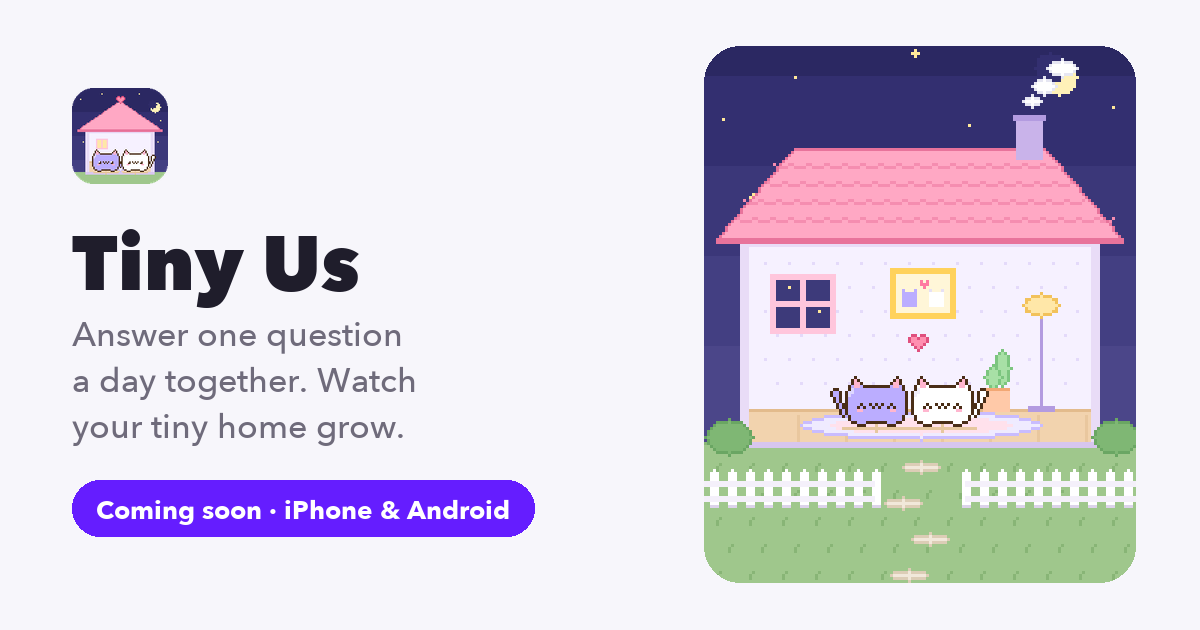
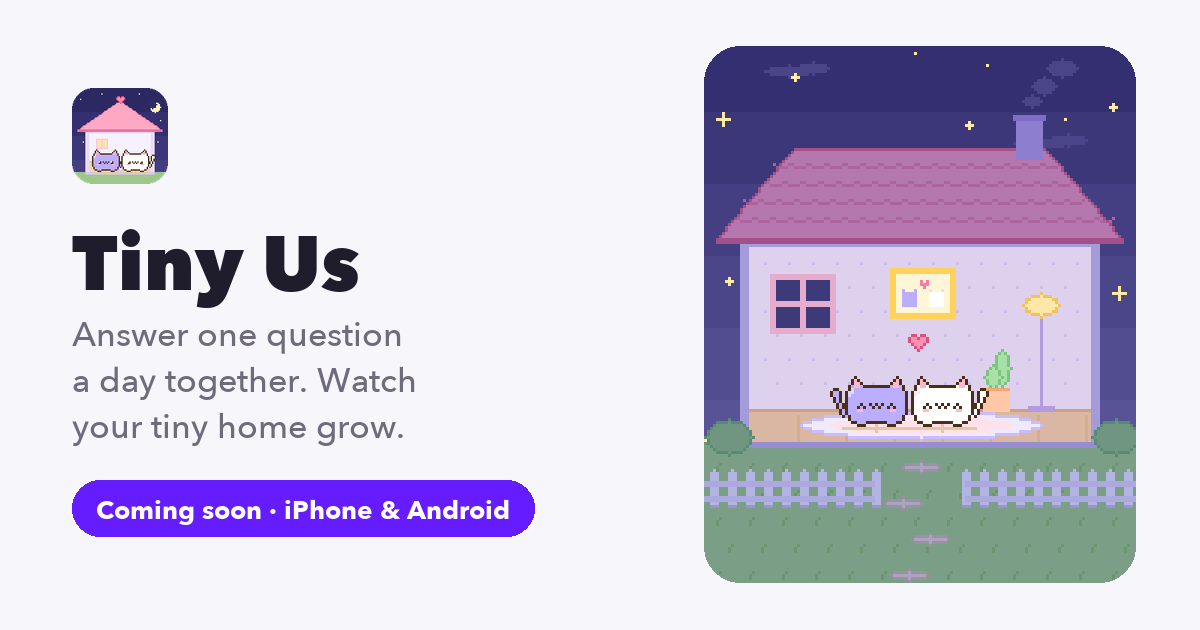
Tiny Us hero: the app's live night look (sky pipeline, night grass tint)
The night home is now the app cottage rendered through sky/make_sky.py (night step: grass #A4B3CB,
stars, moon, lit window) with the starter furniture on top, so the hero and OG image match the app
and store shot 1. Crop starts higher to keep the moon; mobile hero a little smaller.

diff --git a/components/tinyus/sprites.generated.ts b/components/tinyus/sprites.generated.ts
@@ -1,3 +1,3 @@
 // Generated by design-review/tinyus-pixel/website/make_site_art.py. Do not hand-edit.
 // Rows + palettes from the Tiny Us prototype (mochi cats, puppies), drawn by components/tinyus/pixelHome.tsx.
-export const SPRITES = {"scene":{"w":144,"h":189,"feet":136,"xMin":18,"xMax":105},"pets":{"miuu":{"puppy":false,"pal":{"#":"#4A2E17","o":"#BBADFF","p":"#FFB6CF","h":"#DDD6FF","w":"#FFFFFF","r":"#FF7896","b":"#7FB6EC","k":"#FF7896","W":"#DDD6FF","C":"#B9B3CC"},"faces":{"normal":["...#.............#...","..#p#...........#p#..","..#pp#.........#pp#..",".#oppo#########oppo#.",".#hoooooooooooooooo#.","#hhooooooooooooooooo#","#hoooooooooooooooooo#","#ooooooooooooooooooo#","#ooooooooooooooooooo#","#oooow#o#o#o#ow#oooo#","#oooo##oo#o#oo##oooo#","#oooppoooooooooppooo#","#ooooooooooooooooooo#",".#ooooooooooooooooo#.",".#ooooooooooooooooo#.","..##ooo#######ooo##..","....###.......###...."],"blink":["...#.............#...","..#p#...........#p#..","..#pp#.........#pp#..",".#oppo#########oppo#.",".#hoooooooooooooooo#.","#hhooooooooooooooooo#","#hoooooooooooooooooo#","#ooooooooooooooooooo#","#ooooooooooooooooooo#","#ooooooo#o#o#ooooooo#","#oooo##oo#o#oo##oooo#","#oooppoooooooooppooo#","#ooooooooooooooooooo#",".#ooooooooooooooooo#.",".#ooooooooooooooooo#.","..##ooo#######ooo##..","....###.......###...."],"happy":["...#.............#...","..#p#...........#p#..","..#pp#.........#pp#..",".#oppo#########oppo#.",".#hoooooooooooooooo#.","#hhooooooooooooooooo#","#hoooooooooooooooooo#","#ooooooooooooooooooo#","#ooooooooooooooooooo#","#oooo#oo#o#o#oo#oooo#","#ooo#o#oo#o#oo#o#ooo#","#oooppoooooooooppooo#","#ooooooooooooooooooo#",".#ooooooooooooooooo#.",".#ooooooooooooooooo#.","..##ooo#######ooo##..","....###.......###...."],"sleepy":["...#.............#...","..#p#...........#p#..","..#pp#.........#pp#..",".#oppo#########oppo#.",".#hoooooooooooooooo#.","#hhooooooooooooooooo#","#hoooooooooooooooooo#","#ooooooooooooooooooo#","#ooooooooooooooooooo#","#ooo#ooo#o#o#ooo#ooo#","#oooo##oo#o#oo##oooo#","#oooppoooooooooppooo#","#ooooooooooooooooooo#",".#ooooooooooooooooo#.",".#ooooooooooooooooo#.","..##ooo#######ooo##..","....###.......###...."]},"tail":{"up":["....##..","...#oo#.","...#oo#.","...#o#..","...#o#..","..#o#...","..#o#...",".#o#....","#oo#....","#o#....."],"flick":[".....##.","....#oo#","....#oo#","...#o#..","...#o#..","..#o#...","..#o#...",".#o#....","#oo#....","#o#....."]}},"miyomi":{"puppy":false,"pal":{"#":"#4A2E17","o":"#FFFFFF","p":"#FFB6CF","h":"#F1EEFA","w":"#FFFFFF","r":"#FF7896","b":"#7FB6EC","k":"#FF7896","W":"#F1EEFA","C":"#B9B3CC"},"faces":{"normal":["...#.............#...","..#p#...........#p#..","..#pp#.........#pp#..",".#oppo#########oppo#.",".#hoooooooooooooooo#.","#hhooooooooooooooooo#","#hoooooooooooooooooo#","#ooooooooooooooooooo#","#ooooooooooooooooooo#","#oooow#o#o#o#ow#oooo#","#oooo##oo#o#oo##oooo#","#oooppoooooooooppooo#","#ooooooooooooooooooo#",".#ooooooooooooooooo#.",".#ooooooooooooooooo#.","..##ooo#######ooo##..","....###.......###...."],"blink":["...#.............#...","..#p#...........#p#..","..#pp#.........#pp#..",".#oppo#########oppo#.",".#hoooooooooooooooo#.","#hhooooooooooooooooo#","#hoooooooooooooooooo#","#ooooooooooooooooooo#","#ooooooooooooooooooo#","#ooooooo#o#o#ooooooo#","#oooo##oo#o#oo##oooo#","#oooppoooooooooppooo#","#ooooooooooooooooooo#",".#ooooooooooooooooo#.",".#ooooooooooooooooo#.","..##ooo#######ooo##..","....###.......###...."],"happy":["...#.............#...","..#p#...........#p#..","..#pp#.........#pp#..",".#oppo#########oppo#.",".#hoooooooooooooooo#.","#hhooooooooooooooooo#","#hoooooooooooooooooo#","#ooooooooooooooooooo#","#ooooooooooooooooooo#","#oooo#oo#o#o#oo#oooo#","#ooo#o#oo#o#oo#o#ooo#","#oooppoooooooooppooo#","#ooooooooooooooooooo#",".#ooooooooooooooooo#.",".#ooooooooooooooooo#.","..##ooo#######ooo##..","....###.......###...."],"sleepy":["...#.............#...","..#p#...........#p#..","..#pp#.........#pp#..",".#oppo#########oppo#.",".#hoooooooooooooooo#.","#hhooooooooooooooooo#","#hoooooooooooooooooo#","#ooooooooooooooooooo#","#ooooooooooooooooooo#","#ooo#ooo#o#o#ooo#ooo#","#oooo##oo#o#oo##oooo#","#oooppoooooooooppooo#","#ooooooooooooooooooo#",".#ooooooooooooooooo#.",".#ooooooooooooooooo#.","..##ooo#######ooo##..","....###.......###...."]},"tail":{"up":["....##..","...#oo#.","...#oo#.","...#o#..","...#o#..","..#o#...","..#o#...",".#o#....","#oo#....","#o#....."],"flick":[".....##.","....#oo#","....#oo#","...#o#..","...#o#..","..#o#...","..#o#...",".#o#....","#oo#....","#o#....."]}},"cocoa":{"puppy":true,"pal":{"#":"#4A2E17","o":"#E9C9A6","h":"#F5E2CC","e":"#9C6B4A","p":"#FFB6CF","w":"#FFFFFF","r":"#FF7896","b":"#7FB6EC","k":"#FF7896","W":"#F5E2CC","C":"#B9B3CC"},"faces":{"normal":[".....................",".....................",".###.###########.###.","#eee#ooooooooooo#eee#","#eeee#ooooooooo#eeee#","#eeee#ooooooooo#eeee#","#eeee#ooooooooo#eeee#","#eee#ooooooooooo#eee#","####ooooooooooooo####","#oooow#o#o#o#ow#oooo#","#oooo##oo#o#oo##oooo#","#oooppoooooooooppooo#","#ooooooooooooooooooo#",".#ooooooooooooooooo#.",".#ooooooooooooooooo#.","..##ooo#######ooo##..","....###.......###...."],"blink":[".....................",".....................",".###.###########.###.","#eee#ooooooooooo#eee#","#eeee#ooooooooo#eeee#","#eeee#ooooooooo#eeee#","#eeee#ooooooooo#eeee#","#eee#ooooooooooo#eee#","####ooooooooooooo####","#ooooooo#o#o#ooooooo#","#oooo##oo#o#oo##oooo#","#oooppoooooooooppooo#","#ooooooooooooooooooo#",".#ooooooooooooooooo#.",".#ooooooooooooooooo#.","..##ooo#######ooo##..","....###.......###...."],"happy":[".....................",".....................",".###.###########.###.","#eee#ooooooooooo#eee#","#eeee#ooooooooo#eeee#","#eeee#ooooooooo#eeee#","#eeee#ooooooooo#eeee#","#eee#ooooooooooo#eee#","####ooooooooooooo####","#oooo#oo#o#o#oo#oooo#","#ooo#o#oo#o#oo#o#ooo#","#oooppoooooooooppooo#","#ooooooooooooooooooo#",".#ooooooooooooooooo#.",".#ooooooooooooooooo#.","..##ooo#######ooo##..","....###.......###...."],"sleepy":[".....................",".....................",".###.###########.###.","#eee#ooooooooooo#eee#","#eeee#ooooooooo#eeee#","#eeee#ooooooooo#eeee#","#eeee#ooooooooo#eeee#","#eee#ooooooooooo#eee#","####ooooooooooooo####","#ooo#ooo#o#o#ooo#ooo#","#oooo##oo#o#oo##oooo#","#oooppoooooooooppooo#","#ooooooooooooooooooo#",".#ooooooooooooooooo#.",".#ooooooooooooooooo#.","..##ooo#######ooo##..","....###.......###...."]},"tail":{"up":["......","...##.","..#oo#",".#oo#.","#oo#..",".##..."],"flick":["...##.","..#oo#","..#oo#",".#oo#.","#oo#..",".##..."]}},"milk":{"puppy":true,"pal":{"#":"#4A2E17","o":"#F8F4EE","h":"#FFFFFF","e":"#C9A27A","p":"#FFB6CF","w":"#FFFFFF","r":"#FF7896","b":"#7FB6EC","k":"#FF7896","W":"#FFFFFF","C":"#B9B3CC"},"faces":{"normal":[".....................",".....................",".###.###########.###.","#eee#ooooooooooo#eee#","#eeee#ooooooooo#eeee#","#eeee#ooooooooo#eeee#","#eeee#ooooooooo#eeee#","#eee#ooooooooooo#eee#","####ooooooooooooo####","#oooow#o#o#o#ow#oooo#","#oooo##oo#o#oo##oooo#","#oooppoooooooooppooo#","#ooooooooooooooooooo#",".#ooooooooooooooooo#.",".#ooooooooooooooooo#.","..##ooo#######ooo##..","....###.......###...."],"blink":[".....................",".....................",".###.###########.###.","#eee#ooooooooooo#eee#","#eeee#ooooooooo#eeee#","#eeee#ooooooooo#eeee#","#eeee#ooooooooo#eeee#","#eee#ooooooooooo#eee#","####ooooooooooooo####","#ooooooo#o#o#ooooooo#","#oooo##oo#o#oo##oooo#","#oooppoooooooooppooo#","#ooooooooooooooooooo#",".#ooooooooooooooooo#.",".#ooooooooooooooooo#.","..##ooo#######ooo##..","....###.......###...."],"happy":[".....................",".....................",".###.###########.###.","#eee#ooooooooooo#eee#","#eeee#ooooooooo#eeee#","#eeee#ooooooooo#eeee#","#eeee#ooooooooo#eeee#","#eee#ooooooooooo#eee#","####ooooooooooooo####","#oooo#oo#o#o#oo#oooo#","#ooo#o#oo#o#oo#o#ooo#","#oooppoooooooooppooo#","#ooooooooooooooooooo#",".#ooooooooooooooooo#.",".#ooooooooooooooooo#.","..##ooo#######ooo##..","....###.......###...."],"sleepy":[".....................",".....................",".###.###########.###.","#eee#ooooooooooo#eee#","#eeee#ooooooooo#eeee#","#eeee#ooooooooo#eeee#","#eeee#ooooooooo#eeee#","#eee#ooooooooooo#eee#","####ooooooooooooo####","#ooo#ooo#o#o#ooo#ooo#","#oooo##oo#o#oo##oooo#","#oooppoooooooooppooo#","#ooooooooooooooooooo#",".#ooooooooooooooooo#.",".#ooooooooooooooooo#.","..##ooo#######ooo##..","....###.......###...."]},"tail":{"up":["......","...##.","..#oo#",".#oo#.","#oo#..",".##..."],"flick":["...##.","..#oo#","..#oo#",".#oo#.","#oo#..",".##..."]}}},"heart":[".RR.RR.","RrrRrrR","RrrrrrR",".RrrrR.","..RrR..","...R..."],"px":{"R":"#E0507E","r":"#FF8FB0"},"seq":{"land":[["S2",90],["S1",90],["base",80],["S1",80]],"squish":[["S2",150],["S1",90],["T1",110],["base",80],["S1",80]],"stretch":[["T1",130],["base",80],["S1",90]],"bonked":[["S2",420],["S1",120],["base",90],["S1",90]]}} as const;
+export const SPRITES = {"scene":{"w":144,"h":211,"feet":158,"xMin":18,"xMax":105},"pets":{"miuu":{"puppy":false,"pal":{"#":"#4A2E17","o":"#BBADFF","p":"#FFB6CF","h":"#DDD6FF","w":"#FFFFFF","r":"#FF7896","b":"#7FB6EC","k":"#FF7896","W":"#DDD6FF","C":"#B9B3CC"},"faces":{"normal":["...#.............#...","..#p#...........#p#..","..#pp#.........#pp#..",".#oppo#########oppo#.",".#hoooooooooooooooo#.","#hhooooooooooooooooo#","#hoooooooooooooooooo#","#ooooooooooooooooooo#","#ooooooooooooooooooo#","#oooow#o#o#o#ow#oooo#","#oooo##oo#o#oo##oooo#","#oooppoooooooooppooo#","#ooooooooooooooooooo#",".#ooooooooooooooooo#.",".#ooooooooooooooooo#.","..##ooo#######ooo##..","....###.......###...."],"blink":["...#.............#...","..#p#...........#p#..","..#pp#.........#pp#..",".#oppo#########oppo#.",".#hoooooooooooooooo#.","#hhooooooooooooooooo#","#hoooooooooooooooooo#","#ooooooooooooooooooo#","#ooooooooooooooooooo#","#ooooooo#o#o#ooooooo#","#oooo##oo#o#oo##oooo#","#oooppoooooooooppooo#","#ooooooooooooooooooo#",".#ooooooooooooooooo#.",".#ooooooooooooooooo#.","..##ooo#######ooo##..","....###.......###...."],"happy":["...#.............#...","..#p#...........#p#..","..#pp#.........#pp#..",".#oppo#########oppo#.",".#hoooooooooooooooo#.","#hhooooooooooooooooo#","#hoooooooooooooooooo#","#ooooooooooooooooooo#","#ooooooooooooooooooo#","#oooo#oo#o#o#oo#oooo#","#ooo#o#oo#o#oo#o#ooo#","#oooppoooooooooppooo#","#ooooooooooooooooooo#",".#ooooooooooooooooo#.",".#ooooooooooooooooo#.","..##ooo#######ooo##..","....###.......###...."],"sleepy":["...#.............#...","..#p#...........#p#..","..#pp#.........#pp#..",".#oppo#########oppo#.",".#hoooooooooooooooo#.","#hhooooooooooooooooo#","#hoooooooooooooooooo#","#ooooooooooooooooooo#","#ooooooooooooooooooo#","#ooo#ooo#o#o#ooo#ooo#","#oooo##oo#o#oo##oooo#","#oooppoooooooooppooo#","#ooooooooooooooooooo#",".#ooooooooooooooooo#.",".#ooooooooooooooooo#.","..##ooo#######ooo##..","....###.......###...."]},"tail":{"up":["....##..","...#oo#.","...#oo#.","...#o#..","...#o#..","..#o#...","..#o#...",".#o#....","#oo#....","#o#....."],"flick":[".....##.","....#oo#","....#oo#","...#o#..","...#o#..","..#o#...","..#o#...",".#o#....","#oo#....","#o#....."]}},"miyomi":{"puppy":false,"pal":{"#":"#4A2E17","o":"#FFFFFF","p":"#FFB6CF","h":"#F1EEFA","w":"#FFFFFF","r":"#FF7896","b":"#7FB6EC","k":"#FF7896","W":"#F1EEFA","C":"#B9B3CC"},"faces":{"normal":["...#.............#...","..#p#...........#p#..","..#pp#.........#pp#..",".#oppo#########oppo#.",".#hoooooooooooooooo#.","#hhooooooooooooooooo#","#hoooooooooooooooooo#","#ooooooooooooooooooo#","#ooooooooooooooooooo#","#oooow#o#o#o#ow#oooo#","#oooo##oo#o#oo##oooo#","#oooppoooooooooppooo#","#ooooooooooooooooooo#",".#ooooooooooooooooo#.",".#ooooooooooooooooo#.","..##ooo#######ooo##..","....###.......###...."],"blink":["...#.............#...","..#p#...........#p#..","..#pp#.........#pp#..",".#oppo#########oppo#.",".#hoooooooooooooooo#.","#hhooooooooooooooooo#","#hoooooooooooooooooo#","#ooooooooooooooooooo#","#ooooooooooooooooooo#","#ooooooo#o#o#ooooooo#","#oooo##oo#o#oo##oooo#","#oooppoooooooooppooo#","#ooooooooooooooooooo#",".#ooooooooooooooooo#.",".#ooooooooooooooooo#.","..##ooo#######ooo##..","....###.......###...."],"happy":["...#.............#...","..#p#...........#p#..","..#pp#.........#pp#..",".#oppo#########oppo#.",".#hoooooooooooooooo#.","#hhooooooooooooooooo#","#hoooooooooooooooooo#","#ooooooooooooooooooo#","#ooooooooooooooooooo#","#oooo#oo#o#o#oo#oooo#","#ooo#o#oo#o#oo#o#ooo#","#oooppoooooooooppooo#","#ooooooooooooooooooo#",".#ooooooooooooooooo#.",".#ooooooooooooooooo#.","..##ooo#######ooo##..","....###.......###...."],"sleepy":["...#.............#...","..#p#...........#p#..","..#pp#.........#pp#..",".#oppo#########oppo#.",".#hoooooooooooooooo#.","#hhooooooooooooooooo#","#hoooooooooooooooooo#","#ooooooooooooooooooo#","#ooooooooooooooooooo#","#ooo#ooo#o#o#ooo#ooo#","#oooo##oo#o#oo##oooo#","#oooppoooooooooppooo#","#ooooooooooooooooooo#",".#ooooooooooooooooo#.",".#ooooooooooooooooo#.","..##ooo#######ooo##..","....###.......###...."]},"tail":{"up":["....##..","...#oo#.","...#oo#.","...#o#..","...#o#..","..#o#...","..#o#...",".#o#....","#oo#....","#o#....."],"flick":[".....##.","....#oo#","....#oo#","...#o#..","...#o#..","..#o#...","..#o#...",".#o#....","#oo#....","#o#....."]}},"cocoa":{"puppy":true,"pal":{"#":"#4A2E17","o":"#E9C9A6","h":"#F5E2CC","e":"#9C6B4A","p":"#FFB6CF","w":"#FFFFFF","r":"#FF7896","b":"#7FB6EC","k":"#FF7896","W":"#F5E2CC","C":"#B9B3CC"},"faces":{"normal":[".....................",".....................",".###.###########.###.","#eee#ooooooooooo#eee#","#eeee#ooooooooo#eeee#","#eeee#ooooooooo#eeee#","#eeee#ooooooooo#eeee#","#eee#ooooooooooo#eee#","####ooooooooooooo####","#oooow#o#o#o#ow#oooo#","#oooo##oo#o#oo##oooo#","#oooppoooooooooppooo#","#ooooooooooooooooooo#",".#ooooooooooooooooo#.",".#ooooooooooooooooo#.","..##ooo#######ooo##..","....###.......###...."],"blink":[".....................",".....................",".###.###########.###.","#eee#ooooooooooo#eee#","#eeee#ooooooooo#eeee#","#eeee#ooooooooo#eeee#","#eeee#ooooooooo#eeee#","#eee#ooooooooooo#eee#","####ooooooooooooo####","#ooooooo#o#o#ooooooo#","#oooo##oo#o#oo##oooo#","#oooppoooooooooppooo#","#ooooooooooooooooooo#",".#ooooooooooooooooo#.",".#ooooooooooooooooo#.","..##ooo#######ooo##..","....###.......###...."],"happy":[".....................",".....................",".###.###########.###.","#eee#ooooooooooo#eee#","#eeee#ooooooooo#eeee#","#eeee#ooooooooo#eeee#","#eeee#ooooooooo#eeee#","#eee#ooooooooooo#eee#","####ooooooooooooo####","#oooo#oo#o#o#oo#oooo#","#ooo#o#oo#o#oo#o#ooo#","#oooppoooooooooppooo#","#ooooooooooooooooooo#",".#ooooooooooooooooo#.",".#ooooooooooooooooo#.","..##ooo#######ooo##..","....###.......###...."],"sleepy":[".....................",".....................",".###.###########.###.","#eee#ooooooooooo#eee#","#eeee#ooooooooo#eeee#","#eeee#ooooooooo#eeee#","#eeee#ooooooooo#eeee#","#eee#ooooooooooo#eee#","####ooooooooooooo####","#ooo#ooo#o#o#ooo#ooo#","#oooo##oo#o#oo##oooo#","#oooppoooooooooppooo#","#ooooooooooooooooooo#",".#ooooooooooooooooo#.",".#ooooooooooooooooo#.","..##ooo#######ooo##..","....###.......###...."]},"tail":{"up":["......","...##.","..#oo#",".#oo#.","#oo#..",".##..."],"flick":["...##.","..#oo#","..#oo#",".#oo#.","#oo#..",".##..."]}},"milk":{"puppy":true,"pal":{"#":"#4A2E17","o":"#F8F4EE","h":"#FFFFFF","e":"#C9A27A","p":"#FFB6CF","w":"#FFFFFF","r":"#FF7896","b":"#7FB6EC","k":"#FF7896","W":"#FFFFFF","C":"#B9B3CC"},"faces":{"normal":[".....................",".....................",".###.###########.###.","#eee#ooooooooooo#eee#","#eeee#ooooooooo#eeee#","#eeee#ooooooooo#eeee#","#eeee#ooooooooo#eeee#","#eee#ooooooooooo#eee#","####ooooooooooooo####","#oooow#o#o#o#ow#oooo#","#oooo##oo#o#oo##oooo#","#oooppoooooooooppooo#","#ooooooooooooooooooo#",".#ooooooooooooooooo#.",".#ooooooooooooooooo#.","..##ooo#######ooo##..","....###.......###...."],"blink":[".....................",".....................",".###.###########.###.","#eee#ooooooooooo#eee#","#eeee#ooooooooo#eeee#","#eeee#ooooooooo#eeee#","#eeee#ooooooooo#eeee#","#eee#ooooooooooo#eee#","####ooooooooooooo####","#ooooooo#o#o#ooooooo#","#oooo##oo#o#oo##oooo#","#oooppoooooooooppooo#","#ooooooooooooooooooo#",".#ooooooooooooooooo#.",".#ooooooooooooooooo#.","..##ooo#######ooo##..","....###.......###...."],"happy":[".....................",".....................",".###.###########.###.","#eee#ooooooooooo#eee#","#eeee#ooooooooo#eeee#","#eeee#ooooooooo#eeee#","#eeee#ooooooooo#eeee#","#eee#ooooooooooo#eee#","####ooooooooooooo####","#oooo#oo#o#o#oo#oooo#","#ooo#o#oo#o#oo#o#ooo#","#oooppoooooooooppooo#","#ooooooooooooooooooo#",".#ooooooooooooooooo#.",".#ooooooooooooooooo#.","..##ooo#######ooo##..","....###.......###...."],"sleepy":[".....................",".....................",".###.###########.###.","#eee#ooooooooooo#eee#","#eeee#ooooooooo#eeee#","#eeee#ooooooooo#eeee#","#eeee#ooooooooo#eeee#","#eee#ooooooooooo#eee#","####ooooooooooooo####","#ooo#ooo#o#o#ooo#ooo#","#oooo##oo#o#oo##oooo#","#oooppoooooooooppooo#","#ooooooooooooooooooo#",".#ooooooooooooooooo#.",".#ooooooooooooooooo#.","..##ooo#######ooo##..","....###.......###...."]},"tail":{"up":["......","...##.","..#oo#",".#oo#.","#oo#..",".##..."],"flick":["...##.","..#oo#","..#oo#",".#oo#.","#oo#..",".##..."]}}},"heart":[".RR.RR.","RrrRrrR","RrrrrrR",".RrrrR.","..RrR..","...R..."],"px":{"R":"#E0507E","r":"#FF8FB0"},"seq":{"land":[["S2",90],["S1",90],["base",80],["S1",80]],"squish":[["S2",150],["S1",90],["T1",110],["base",80],["S1",80]],"stretch":[["T1",130],["base",80],["S1",90]],"bonked":[["S2",420],["S1",120],["base",90],["S1",90]]}} as const;

diff --git a/components/tinyus/landing.tsx b/components/tinyus/landing.tsx
@@ -71,7 +71,7 @@ export default function TinyLanding({ locale }: { locale: Locale }) {
           <p className="mt-5 max-w-md text-lg leading-relaxed text-tu-caption">{t.heroBody}</p>
           <GetTinyUs locale={locale} id="waitlist-hero" />
         </div>
-        <div className="order-1 mx-auto w-full max-w-[264px] sm:max-w-[320px] md:order-2 md:max-w-[432px]">
+        <div className="order-1 mx-auto w-full max-w-[240px] sm:max-w-[300px] md:order-2 md:max-w-[432px]">
           <div className="overflow-hidden rounded-[32px] bg-tu-night shadow-[0_24px_60px_-28px_rgba(36,32,90,0.7)]">
             <PixelHome bg="/tinyus/art/home-night.png" pets={["miuu", "miyomi"]} alt={t.heroAlt} />
           </div>
